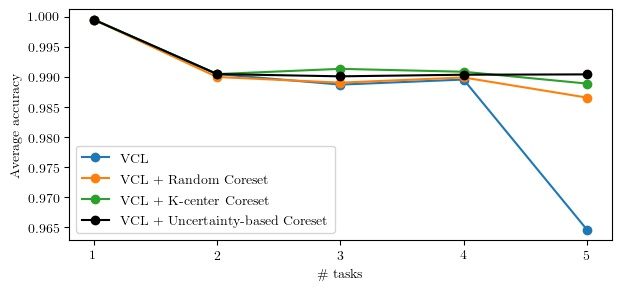
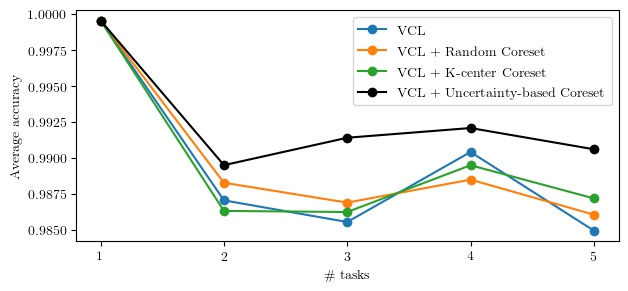
More results added

diff --git a/ddm_py3/run_split.py b/ddm_py3/run_split.py
@@ -55,7 +55,7 @@ class SplitMnistGenerator():
 
 hidden_size = [256, 256]
 batch_size = None
-no_epochs = 120
+no_epochs = 50
 single_head = False
 
 # Run vanilla VCL
@@ -80,6 +80,7 @@ rand_vcl_result = vcl.run_vcl(hidden_size, no_epochs, data_gen,
 print(rand_vcl_result)
 
 # Run k-center coreset VCL
+coreset_size = 200
 tf.reset_default_graph()
 tf.set_random_seed(12)
 np.random.seed(1)
@@ -90,6 +91,7 @@ kcen_vcl_result = vcl.run_vcl(hidden_size, no_epochs, data_gen,
 print(kcen_vcl_result)
 
 # Run uncertainty-based coreset VCL
+coreset_size = 200
 tf.reset_default_graph()
 tf.set_random_seed(12)
 np.random.seed(1)
